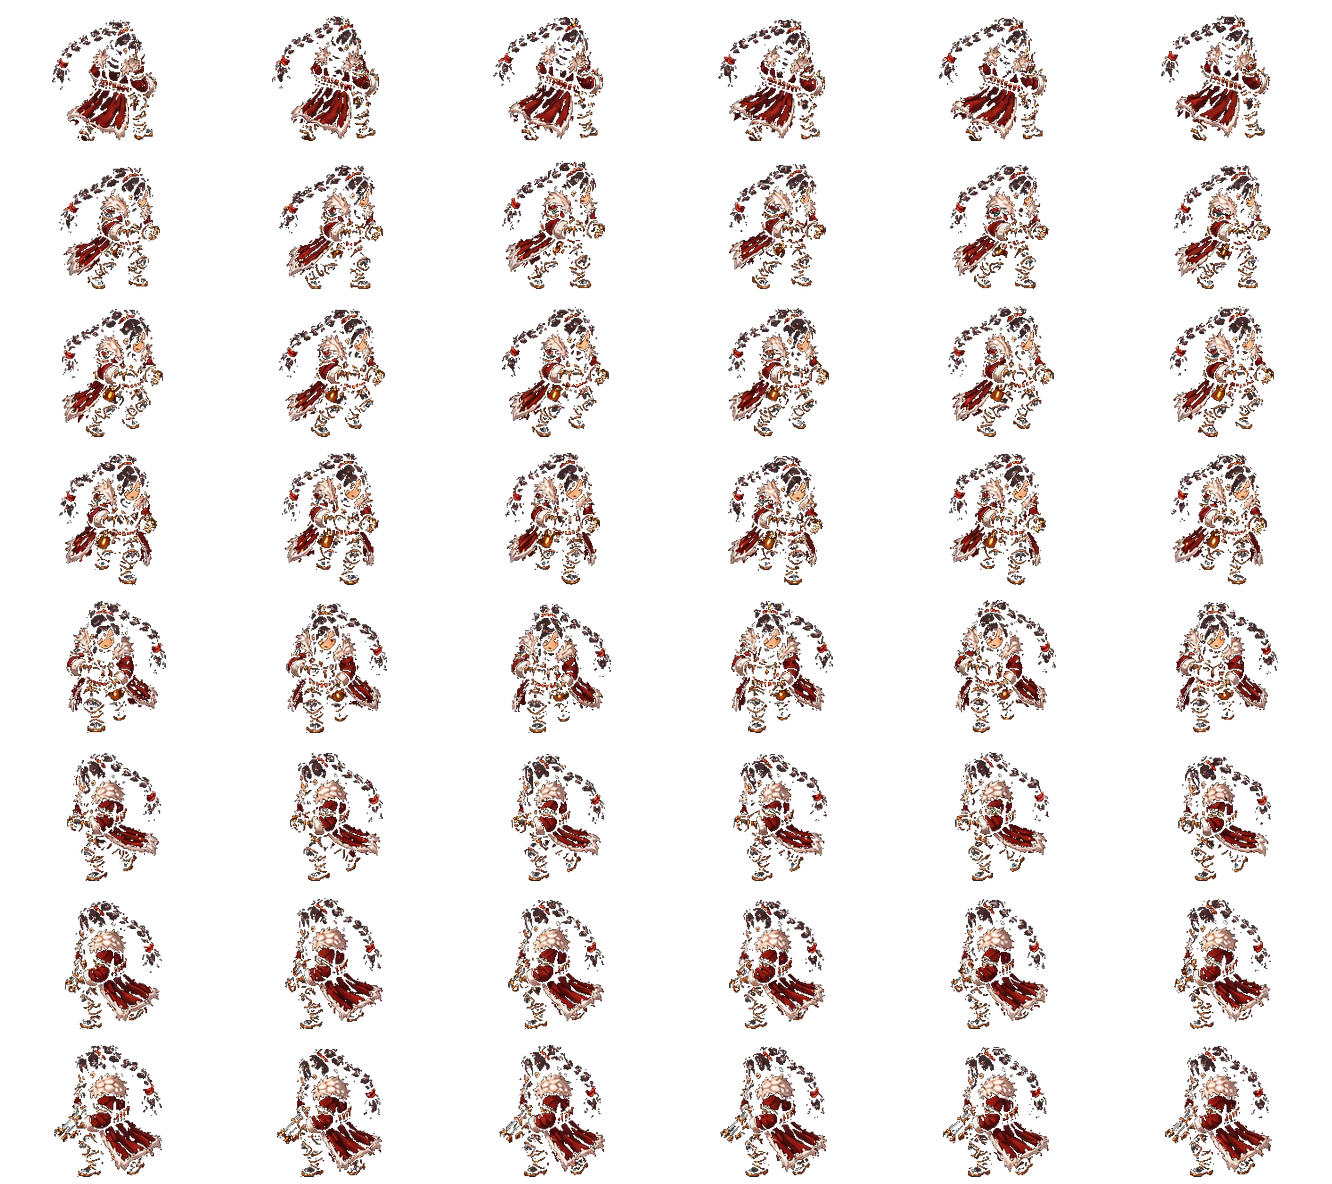
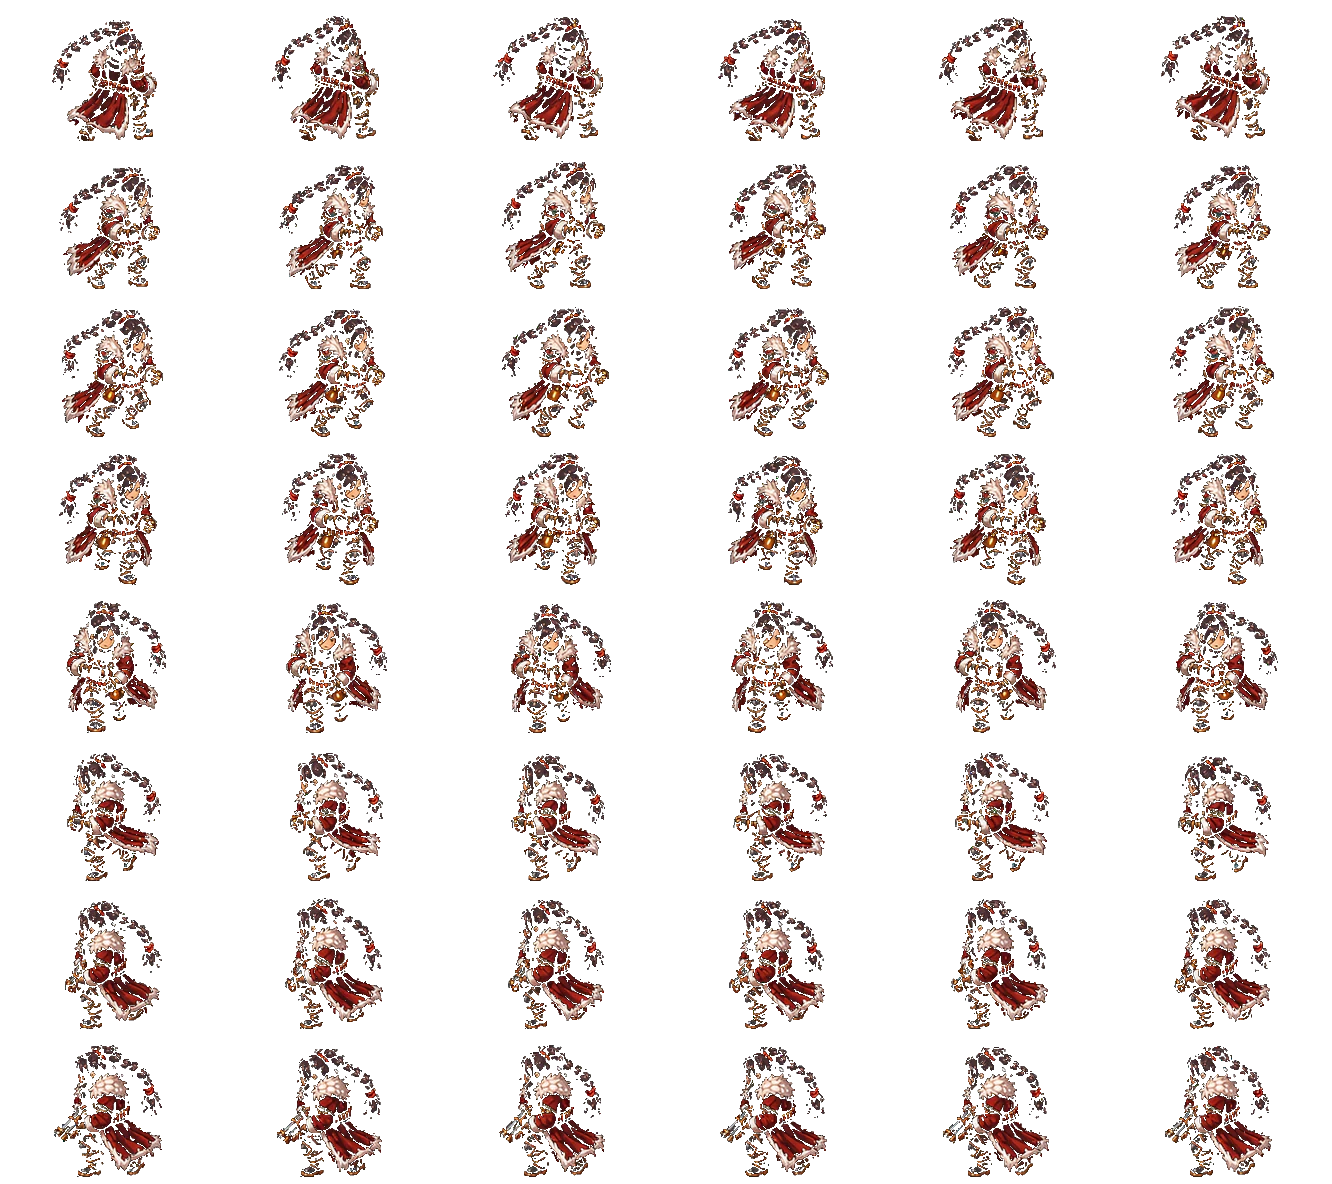
Improve mobile skin clarity and shotgun alignment

diff --git a/tests/premium-skins.test.js b/tests/premium-skins.test.js
@@ -7,7 +7,7 @@ import sharp from 'sharp';
 import { SkinCommerce } from '../src/commerce/SkinCommerce.js';
 import {
   hasSkinAccess, normalizeSkinProfile, PREMIUM_SKINS, selectedSkin, SKIN_ACCESS_MODE,
-  skinProjectileAnchor, SKINS_BY_HERO, SKIN_CATALOG_VERSION, weaponArtForSkin,
+  skinProjectileAnchor, skinProjectileRotation, SKINS_BY_HERO, SKIN_CATALOG_VERSION, weaponArtForSkin,
 } from '../src/data/skins.js';
 import { ALL_UPGRADES } from '../src/data/upgrades.js';
 import { activePresentationRecipe, presentationCoverage } from '../src/game/UpgradePresentationProfiles.js';
@@ -28,6 +28,34 @@ function response(body, status = 200) {
 function fakeReceipt({ serviceId, amount, txId = 'tx-1' }) {
   const encode = (value) => Buffer.from(JSON.stringify(value)).toString('base64url');
   return `${encode({ alg: 'HS256' })}.${encode({ sid: serviceId, amt: amount, tx_id: txId })}.signature`;
+}
+
+function framePrincipalAngle(raw, frame) {
+  const left = frame % 4 * 256;
+  const top = Math.floor(frame / 4) * 256;
+  const points = [];
+  let weight = 0;
+  let meanX = 0;
+  let meanY = 0;
+  for (let y = 0; y < 256; y += 1) for (let x = 0; x < 256; x += 1) {
+    const alpha = raw[((top + y) * 1024 + left + x) * 4 + 3];
+    if (alpha < 64) continue;
+    points.push([x, y, alpha]);
+    weight += alpha;
+    meanX += x * alpha;
+    meanY += y * alpha;
+  }
+  meanX /= weight;
+  meanY /= weight;
+  let xx = 0;
+  let yy = 0;
+  let xy = 0;
+  for (const [x, y, alpha] of points) {
+    xx += (x - meanX) ** 2 * alpha;
+    yy += (y - meanY) ** 2 * alpha;
+    xy += (x - meanX) * (y - meanY) * alpha;
+  }
+  return .5 * Math.atan2(2 * xy, xx - yy);
 }
 
 test('ships two complete premium hero, weapon, projectile, and firing-audio packs per hunter', async () => {
@@ -86,6 +114,8 @@ test('ships two complete premium hero, weapon, projectile, and firing-audio pack
       assert.ok(Math.abs(anchor.x * 256 - weightedX / alpha) <= 1.5, `${skin.id}/${weaponId} alpha x anchor`);
       assert.ok(Math.abs(anchor.y * 256 - weightedY / alpha) <= 1.5, `${skin.id}/${weaponId} alpha y anchor`);
     }
+    const shotgunResidual = framePrincipalAngle(raw, 6) + skinProjectileRotation(skin, 'shotgun');
+    assert.ok(Math.abs(shotgunResidual) <= .02, `${skin.id} shotgun art follows its trajectory`);
 
     const heroPath = skin.heroAtlas.file.split('?')[0].replace(/^\.\//, '../');
     const heroUrl = new URL(heroPath, import.meta.url);
@@ -96,6 +126,10 @@ test('ships two complete premium hero, weapon, projectile, and firing-audio pack
     );
     const heroRaw = await sharp(fileURLToPath(heroUrl)).ensureAlpha().raw().toBuffer();
     const heroWidth = heroMetadata.width;
+    let heroVisible = 0;
+    let heroAlpha = 0;
+    let heroSolid = 0;
+    let heroLuminance = 0;
     for (let row = 0; row < 8; row += 1) for (let column = 0; column < 6; column += 1) {
       const left = column * skin.heroAtlas.frameWidth;
       const top = row * skin.heroAtlas.frameHeight;
@@ -103,12 +137,26 @@ test('ships two complete premium hero, weapon, projectile, and firing-audio pack
       for (let y = 0; y < skin.heroAtlas.frameHeight; y += 1) {
         for (let x = 0; x < skin.heroAtlas.frameWidth; x += 1) {
           const alpha = heroRaw[((top + y) * heroWidth + left + x) * 4 + 3];
-          if (alpha) visible += 1;
+          if (alpha) {
+            visible += 1;
+            heroVisible += 1;
+            heroAlpha += alpha;
+            if (alpha >= 240) heroSolid += 1;
+            const offset = ((top + y) * heroWidth + left + x) * 4;
+            heroLuminance += (heroRaw[offset] * .2126 + heroRaw[offset + 1] * .7152
+              + heroRaw[offset + 2] * .0722) * alpha / 255;
+          }
           if (x === 0 || y === 0 || x === skin.heroAtlas.frameWidth - 1
             || y === skin.heroAtlas.frameHeight - 1) assert.equal(alpha, 0);
         }
       }
       assert.ok(visible >= 480, `${skin.id} frame ${row * 6 + column} must be readable`);
+    }
+    if (skin.heroId === 'diamond' || skin.heroId === 'hina') {
+      const minimumAlpha = skin.rarity === 'mythic' ? 195 : 215;
+      assert.ok(heroAlpha / heroVisible >= minimumAlpha, `${skin.id} mobile body alpha`);
+      assert.ok(heroSolid / heroVisible >= .7, `${skin.id} mobile solid silhouette`);
+      assert.ok(heroLuminance / heroVisible >= 60, `${skin.id} mobile premultiplied luminance`);
     }
 
     const audioUrl = new URL(skin.audioBank.replace(/^\.\//, '../'), import.meta.url);

diff --git a/src/data/skins.js b/src/data/skins.js
@@ -10,25 +10,35 @@ const projectileAnchors = Object.freeze({
   'scarlett-prismatic-tempest-seraph': { revolver: [129, 133], shotgun: [138, 129], crossbow: [94, 124], flame: [122, 128] },
   'hina-nine-tail-chrono-kitsune': { revolver: [127, 113], shotgun: [141, 129], crossbow: [113, 127], flame: [126, 144] },
 });
+const shotgunRotationCorrections = Object.freeze({
+  'shana-astral-warden': 31.3,
+  'diamond-bloodmoon-regent': 17.1,
+  'scarlett-sunforge-phoenix': 39.8,
+  'hina-void-lotus': 26.3,
+  'shana-celestial-dragon-sovereign': 49.6,
+  'diamond-obsidian-eclipse-valkyrie': 32.4,
+  'scarlett-prismatic-tempest-seraph': 46.2,
+  'hina-nine-tail-chrono-kitsune': 28.7,
+});
 
 function skinWeaponArt(skinId) {
   return Object.freeze(Object.fromEntries(weaponIds.map((weaponId) => [
-    weaponId, `${base}/weapons/${skinId}/${weaponId}.webp?build=20260901c`,
+    weaponId, `${base}/weapons/${skinId}/${weaponId}.webp?build=20260901e`,
   ])));
 }
 
 function skinHeroAtlas(skinId, frameWidth, frameHeight) {
   return Object.freeze({
     key: `skin-hero-${skinId}`,
-    file: `${base}/heroes/${skinId}-atlas.webp?build=20260901c`,
+    file: `${base}/heroes/${skinId}-atlas.webp?build=20260901e`,
     frameWidth, frameHeight, weaponless: true,
   });
 }
 
 function skinPackArt(skinId) {
   return Object.freeze({
-    full: `${base}/${skinId}-pack.webp?build=20260901c`,
-    card: `${base}/${skinId}-card.webp?build=20260901c`,
+    full: `${base}/${skinId}-pack.webp?build=20260901e`,
+    card: `${base}/${skinId}-card.webp?build=20260901e`,
   });
 }
 
@@ -110,7 +120,7 @@ export const PREMIUM_SKINS = Object.freeze({
     spriteTint: 0xc9ffff, primary: 0x25e9ff, secondary: 0xffd86b, impact: 0xedffff,
     motif: 'dragon', weaponPitch: 1.12, voicePitch: 1.08,
     vfxKey: 'skin-vfx-celestial-dragon',
-    vfxAtlas: `${base}/vfx/celestial-dragon-vfx-atlas.webp?build=20260901c`,
+    vfxAtlas: `${base}/vfx/celestial-dragon-vfx-atlas.webp?build=20260901e`,
     audioBank: `${base}/audio/celestial-dragon`,
   }),
   'diamond-obsidian-eclipse-valkyrie': Object.freeze({
@@ -126,7 +136,7 @@ export const PREMIUM_SKINS = Object.freeze({
     spriteTint: 0xff85cd, primary: 0xff2f9d, secondary: 0x8517c9, impact: 0xffd0eb,
     motif: 'eclipse', weaponPitch: .72, voicePitch: .74,
     vfxKey: 'skin-vfx-obsidian-eclipse',
-    vfxAtlas: `${base}/vfx/obsidian-eclipse-vfx-atlas.webp?build=20260901c`,
+    vfxAtlas: `${base}/vfx/obsidian-eclipse-vfx-atlas.webp?build=20260901e`,
     audioBank: `${base}/audio/obsidian-eclipse`,
   }),
   'scarlett-prismatic-tempest-seraph': Object.freeze({
@@ -142,7 +152,7 @@ export const PREMIUM_SKINS = Object.freeze({
     spriteTint: 0xf2f8ff, primary: 0x64c9ff, secondary: 0xffcf63, impact: 0xffffff,
     motif: 'seraph', weaponPitch: 1.2, voicePitch: 1.14,
     vfxKey: 'skin-vfx-prismatic-tempest',
-    vfxAtlas: `${base}/vfx/prismatic-tempest-vfx-atlas.webp?build=20260901c`,
+    vfxAtlas: `${base}/vfx/prismatic-tempest-vfx-atlas.webp?build=20260901e`,
     audioBank: `${base}/audio/prismatic-tempest`,
   }),
   'hina-nine-tail-chrono-kitsune': Object.freeze({
@@ -158,7 +168,7 @@ export const PREMIUM_SKINS = Object.freeze({
     spriteTint: 0xbba8ff, primary: 0x8c42ff, secondary: 0x35e5e7, impact: 0xf0e5ff,
     motif: 'kitsune', weaponPitch: 1.34, voicePitch: 1.28,
     vfxKey: 'skin-vfx-chrono-kitsune',
-    vfxAtlas: `${base}/vfx/chrono-kitsune-vfx-atlas.webp?build=20260901c`,
+    vfxAtlas: `${base}/vfx/chrono-kitsune-vfx-atlas.webp?build=20260901e`,
     audioBank: `${base}/audio/chrono-kitsune`,
   }),
 });
@@ -207,6 +217,11 @@ export function skinProjectileTint(skin, weaponId) {
 export function skinProjectileAnchor(skin, weaponId) {
   const point = projectileAnchors[skin?.id]?.[weaponId] || [128, 128];
   return { x: point[0] / 256, y: point[1] / 256 };
+}
+
+export function skinProjectileRotation(skin, weaponId) {
+  if (weaponId !== 'shotgun') return 0;
+  return (shotgunRotationCorrections[skin?.id] || 0) * Math.PI / 180;
 }
 
 export function weaponArtForSkin(skin, weapon) {

diff --git a/src/game/CombatSystem.js b/src/game/CombatSystem.js
@@ -3,17 +3,17 @@ import { CombatEffects } from './CombatEffects.js?build=20260828e';
 import { handleSpecialKill } from './KillProgression.js?build=20260825r';
 import { resolveProjectileLaunchHits, resolveProjectileTravelHits } from './ProjectileLaunchCollision.js?build=20260827e';
 import { shouldConsumeAmmo, upgradedProjectileCount } from './WeaponMechanics.js?build=20260825r';
-import { presentWeaponImpact, updateProjectilePresentation } from './WeaponPresentation.js?build=20260831a';
-import { skinProjectileTint } from '../data/skins.js?build=20260901c';
+import { presentWeaponImpact, updateProjectilePresentation } from './WeaponPresentation.js?build=20260901e';
+import { skinProjectileTint } from '../data/skins.js?build=20260901e';
 import {
   PROJECTILE_RENDER_MULTIPLIER, projectileBodyGeometry, projectileBodyRadius,
-  projectileCollisionRadius, projectileScale, usesSweptProjectileCollision,
+  projectileCollisionRadius, projectileScale, syncProjectileVisualRotation, usesSweptProjectileCollision,
   visibleProjectileCollisionRadius,
-} from './ProjectileGeometry.js?build=20260901d';
+} from './ProjectileGeometry.js?build=20260901e';
 
 export {
   PROJECTILE_RENDER_MULTIPLIER, projectileBodyGeometry, projectileBodyRadius,
-  projectileCollisionRadius, projectileScale, usesSweptProjectileCollision,
+  projectileCollisionRadius, projectileScale, syncProjectileVisualRotation, usesSweptProjectileCollision,
   visibleProjectileCollisionRadius,
 };
 
@@ -40,6 +40,7 @@ export class CombatSystem {
       if (!bullet?.active) return;
       if (bullet.homingTarget?.active) {
         const angle = Phaser.Math.Angle.Between(bullet.x, bullet.y, bullet.homingTarget.x, bullet.homingTarget.y);
+        syncProjectileVisualRotation(bullet, angle);
         this.scene.physics.velocityFromRotation(angle, bullet.speed, bullet.body.velocity);
       }
       if (bullet.sweptCollision) {
@@ -142,6 +143,8 @@ export class CombatSystem {
     bullet.summon = Boolean(spec.summon);
     bullet.sourceType = spec.sourceType || (bullet.summon ? 'summon' : 'weapon');
     bullet.weaponId = spec.weaponId || null;
+    bullet.trajectoryAngle = angle;
+    bullet.visualRotationOffset = 0;
     bullet.skin = spec.skin === undefined && bullet.weaponId ? this.scene.state.skin : (spec.skin || null);
     bullet.sweptCollision = usesSweptProjectileCollision(bullet.weaponId);
     bullet.previousX = x;
@@ -260,7 +263,7 @@ export class CombatSystem {
     bullet.damage *= 1.12;
     bullet.trajectoryRevision = Number(bullet.trajectoryRevision || 0) + 1;
     const angle = Phaser.Math.Angle.Between(bullet.x, bullet.y, target.x, target.y);
-    bullet.setRotation(angle);
+    syncProjectileVisualRotation(bullet, angle);
     this.scene.physics.velocityFromRotation(angle, bullet.speed, bullet.body.velocity);
     bullet.expiresAt = Math.max(bullet.expiresAt, this.scene.time.now + 420);
     this.scene.premiumVfx?.ricochet(bullet);

diff --git a/src/game/PremiumVfxDirector.js b/src/game/PremiumVfxDirector.js
@@ -1,6 +1,6 @@
 import { activePresentationRecipe, upgradePresentation } from './UpgradePresentationProfiles.js?build=20260828e';
-import { skinProjectileAnchor } from '../data/skins.js?build=20260901d';
-import { PREMIUM_PROJECTILE_CORE_RATIO } from './ProjectileGeometry.js?build=20260901d';
+import { skinProjectileAnchor, skinProjectileRotation } from '../data/skins.js?build=20260901e';
+import { PREMIUM_PROJECTILE_CORE_RATIO, syncProjectileVisualRotation } from './ProjectileGeometry.js?build=20260901e';
 
 const WEAPON_FRAMES = Object.freeze({ revolver: 1, shotgun: 2, crossbow: 3, flame: 4 });
 const PROJECTILE_FRAMES = Object.freeze({ revolver: 5, shotgun: 6, crossbow: 3, flame: 4 });
@@ -159,6 +159,8 @@ export class PremiumVfxDirector {
       .setBlendMode(Phaser.BlendModes.ADD);
     bullet.premiumVfxScale = scale;
     bullet.projectileCoreRatio = PREMIUM_PROJECTILE_CORE_RATIO;
+    bullet.visualRotationOffset = skinProjectileRotation(this.skin, weaponId);
+    syncProjectileVisualRotation(bullet, bullet.trajectoryAngle || 0);
   }
 
   shot(angle, authoredAngles = []) {
@@ -195,7 +197,7 @@ export class PremiumVfxDirector {
     const recipe = activePresentationRecipe(this.scene.state);
     bullet.nextPremiumTrailAt = this.scene.time.now + Math.max(34,
       (this.scene.performance?.mobile ? 96 : 58) - recipe.trailRate * 5);
-    const angle = bullet.rotation || 0;
+    const angle = bullet.trajectoryAngle ?? bullet.rotation ?? 0;
     this.emit(recipe.fire && bullet.burnChance ? 12 : (TRAIL_FRAMES[bullet.weaponId] ?? 6),
       bullet.x - Math.cos(angle) * 10, bullet.y - Math.sin(angle) * 10, {
         rotation: angle, scale: Math.max(.035, (bullet.premiumVfxScale || .06) * .7),
@@ -224,7 +226,8 @@ export class PremiumVfxDirector {
   }
 
   ricochet(bullet) {
-    this.emit(9, bullet.x, bullet.y, { rotation: bullet.rotation, scale: .075, endScale: .2, duration: 175, priority: 2 });
+    this.emit(9, bullet.x, bullet.y, { rotation: bullet.trajectoryAngle ?? bullet.rotation,
+      scale: .075, endScale: .2, duration: 175, priority: 2 });
   }
 
   reload(stage) {

diff --git a/src/game/GameScene.js b/src/game/GameScene.js
@@ -1,11 +1,11 @@
 import { HERO_ATLASES } from '../config/assets.js?build=20260825r';
 import { ENEMIES, RUN_SECONDS } from '../data/enemies.js?build=20260828i';
 import { HEROES } from '../data/heroes.js?build=20260828i';
-import { PREMIUM_SKINS } from '../data/skins.js?build=20260901c';
+import { PREMIUM_SKINS } from '../data/skins.js?build=20260901e';
 import { TOMES, sampleUpgradeCards } from '../data/upgrades.js?build=20260826b';
 import { WEAPONS } from '../data/weapons.js?build=20260827b';
 import { createCameraFittedBackground } from './BackgroundSystem.js?build=20260826d';
-import { CombatSystem } from './CombatSystem.js?build=20260901d';
+import { CombatSystem } from './CombatSystem.js?build=20260901e';
 import { BossBarrierSystem } from './BossBarrierSystem.js?build=20260831b';
 import { CharacterAbilitySystem } from './CharacterAbilitySystem.js?build=20260828i';
 import { EnemySystem } from './EnemySystem.js?build=20260901c';
@@ -17,8 +17,8 @@ import { SummonSystem } from './SummonSystem.js?build=20260828e';
 import { UpgradeEffectSystem } from './UpgradeEffectSystem.js?build=20260828e';
 import { WorldObstacleSystem } from './WorldObstacleSystem.js?build=20260828i';
 import { PremiumWeaponAudio } from './PremiumWeaponAudio.js?build=20260901b';
-import { presentWeaponShot } from './WeaponPresentation.js?build=20260831a';
-import { PremiumVfxDirector } from './PremiumVfxDirector.js?build=20260901d';
+import { presentWeaponShot } from './WeaponPresentation.js?build=20260901e';
+import { PremiumVfxDirector } from './PremiumVfxDirector.js?build=20260901e';
 import { gameDeviceProfile } from './deviceProfile.js?build=20260901c';
 import { movementMultiplier } from './movement.js?build=20260825r';
 import { updateMovementFeedback, updateShotFeedback, updateWeaponCharge } from './PlayerFeedback.js?build=20260831a';

diff --git a/tests/weapon-progression.test.js b/tests/weapon-progression.test.js
@@ -4,7 +4,7 @@ import { projectileTravelDistance, WEAPONS } from '../src/data/weapons.js';
 import { UPGRADES } from '../src/data/upgrades.js';
 import {
   CombatSystem, PROJECTILE_RENDER_MULTIPLIER, projectileBodyGeometry, projectileBodyRadius,
-  projectileCollisionRadius, projectileScale, usesSweptProjectileCollision,
+  projectileCollisionRadius, projectileScale, syncProjectileVisualRotation, usesSweptProjectileCollision,
   visibleProjectileCollisionRadius,
 } from '../src/game/CombatSystem.js';
 import { PREMIUM_PROJECTILE_CORE_RATIO } from '../src/game/ProjectileGeometry.js';
@@ -78,6 +78,15 @@ test('projectile body is centered on its visible anchor at every render scale', 
 test('every authored weapon projectile uses swept collision on slow frames', () => {
   for (const weapon of Object.values(WEAPONS)) assert.equal(usesSweptProjectileCollision(weapon.id), true);
   assert.equal(usesSweptProjectileCollision(null), false);
+});
+
+test('cosmetic projectile rotation does not alter its authored trajectory', () => {
+  const bullet = {
+    rotation: 0, visualRotationOffset: .42,
+    setRotation(value) { this.rotation = value; return this; },
+  };
+  assert.ok(Math.abs(syncProjectileVisualRotation(bullet, -.2) - .22) < 1e-9);
+  assert.equal(bullet.trajectoryAngle, -.2);
 });
 
 test('crossbow charge grows while still and resets on movement', () => {

diff --git a/src/main.js b/src/main.js
@@ -1,14 +1,14 @@
 import { HEROES } from './data/heroes.js?build=20260828i';
-import { normalizeSkinProfile, SKIN_ACCESS_MODE } from './data/skins.js?build=20260901c';
+import { normalizeSkinProfile, SKIN_ACCESS_MODE } from './data/skins.js?build=20260901e';
 import { WEAPONS } from './data/weapons.js?build=20260827b';
 import { BootScene } from './game/BootScene.js?build=20260828g';
-import { GameScene } from './game/GameScene.js?build=20260901d';
+import { GameScene } from './game/GameScene.js?build=20260901e';
 import { gameRenderResolution } from './game/deviceProfile.js?build=20260901c';
 import { installVisibleResume } from './game/runtimeLifecycle.js?build=20260825r';
 import { defaultProfile, initPlatform } from './platform/usion.js?build=20260828a';
 import { createI18n } from './ui/i18n.js?build=20260826l';
 import { installInteractionGuards } from './ui/interactionGuards.js?build=20260826h';
-import { UIController } from './ui/UIController.js?build=20260901b';
+import { UIController } from './ui/UIController.js?build=20260901e';
 import { gameViewportSize, installAutoLandscape, requestLandscape } from './ui/orientation.js?build=20260826b';
 
 async function boot() {

diff --git a/src/game/WeaponPresentation.js b/src/game/WeaponPresentation.js
@@ -134,7 +134,7 @@ export function presentWeaponImpact(scene, bullet, x, y) {
   if (!bullet?.weaponId || !scene?.add?.rectangle) return;
   const skin = bullet.skin || null;
   const profile = weaponEffectProfile(bullet.weaponId, skin);
-  const angle = bullet.rotation || 0;
+  const angle = bullet.trajectoryAngle ?? bullet.rotation ?? 0;
   scene.premiumVfx?.impact(bullet, x, y);
   scene.weaponAudio?.playImpact?.(bullet, scene.state);
   if (skin) return;
@@ -158,7 +158,7 @@ export function updateProjectilePresentation(scene, bullet) {
   if (bullet?.skin) return;
   if (bullet?.weaponId !== 'flame' || scene.time.now < (bullet.nextTrailAt || 0)) return;
   bullet.nextTrailAt = scene.time.now + (scene.performance?.mobile ? 92 : 62);
-  const angle = bullet.rotation || 0;
+  const angle = bullet.trajectoryAngle ?? bullet.rotation ?? 0;
   const x = bullet.x - Math.cos(angle) * 12;
   const y = bullet.y - Math.sin(angle) * 12;
   const scale = weaponEffectProfile('flame', bullet.skin || null).visualScale;

diff --git a/tests/hosting.test.js b/tests/hosting.test.js
@@ -58,8 +58,8 @@ test('mobile boots directly into automatic landscape with dedicated Hina ability
   assert.match(css, /html\.mobile-rotated #app/);
   assert.match(css, /rotate\(90deg\)/);
   assert.match(css, /#game canvas[^}]*width:\s*100%\s*!important[^}]*height:\s*100%\s*!important/s);
-  assert.match(main, /GameScene\.js\?build=20260901d/);
-  assert.match(html, /main\.js\?build=20260901d/);
+  assert.match(main, /GameScene\.js\?build=20260901e/);
+  assert.match(html, /main\.js\?build=20260901e/);
   assert.match(html, /skin-shop\.css\?build=20260901b/);
   assert.match(main, /resolution:\s*gameRenderResolution\(window\.devicePixelRatio, renderProfile\)/);
   assert.match(html, /minimum-scale=1,maximum-scale=1/);

diff --git a/src/ui/UIController.js b/src/ui/UIController.js
@@ -1,5 +1,5 @@
-import { weaponArtForSkin } from '../data/skins.js?build=20260901b';
-import { SkinShopController } from './SkinShopController.js?build=20260901b';
+import { weaponArtForSkin } from '../data/skins.js?build=20260901e';
+import { SkinShopController } from './SkinShopController.js?build=20260901e';
 import {
   damageSourceLabel, formatSurvivalTime, heroPassiveCopy, movementCopy, savedOrDefault,
   survivalLeaderboardEntries,

diff --git a/src/game/ProjectileGeometry.js b/src/game/ProjectileGeometry.js
@@ -13,6 +13,12 @@ export function usesSweptProjectileCollision(weaponId) {
   return Boolean(weaponId);
 }
 
+export function syncProjectileVisualRotation(bullet, trajectoryAngle) {
+  bullet.trajectoryAngle = trajectoryAngle;
+  bullet.setRotation(trajectoryAngle + (bullet.visualRotationOffset || 0));
+  return bullet.rotation;
+}
+
 export function visibleProjectileCollisionRadius(
   size = 7,
   renderScale = projectileScale(size),

diff --git a/src/ui/SkinShopController.js b/src/ui/SkinShopController.js
@@ -1,4 +1,4 @@
-import { hasSkinAccess, selectedSkin, SKIN_ACCESS_MODE, SKINS_BY_HERO } from '../data/skins.js?build=20260901b';
+import { hasSkinAccess, selectedSkin, SKIN_ACCESS_MODE, SKINS_BY_HERO } from '../data/skins.js?build=20260901e';
 
 const WEAPON_IDS = Object.freeze(['revolver', 'shotgun', 'crossbow', 'flame']);
 const WEAPON_VFX_FRAMES = Object.freeze({ revolver: 1, shotgun: 2, crossbow: 3, flame: 4 });
